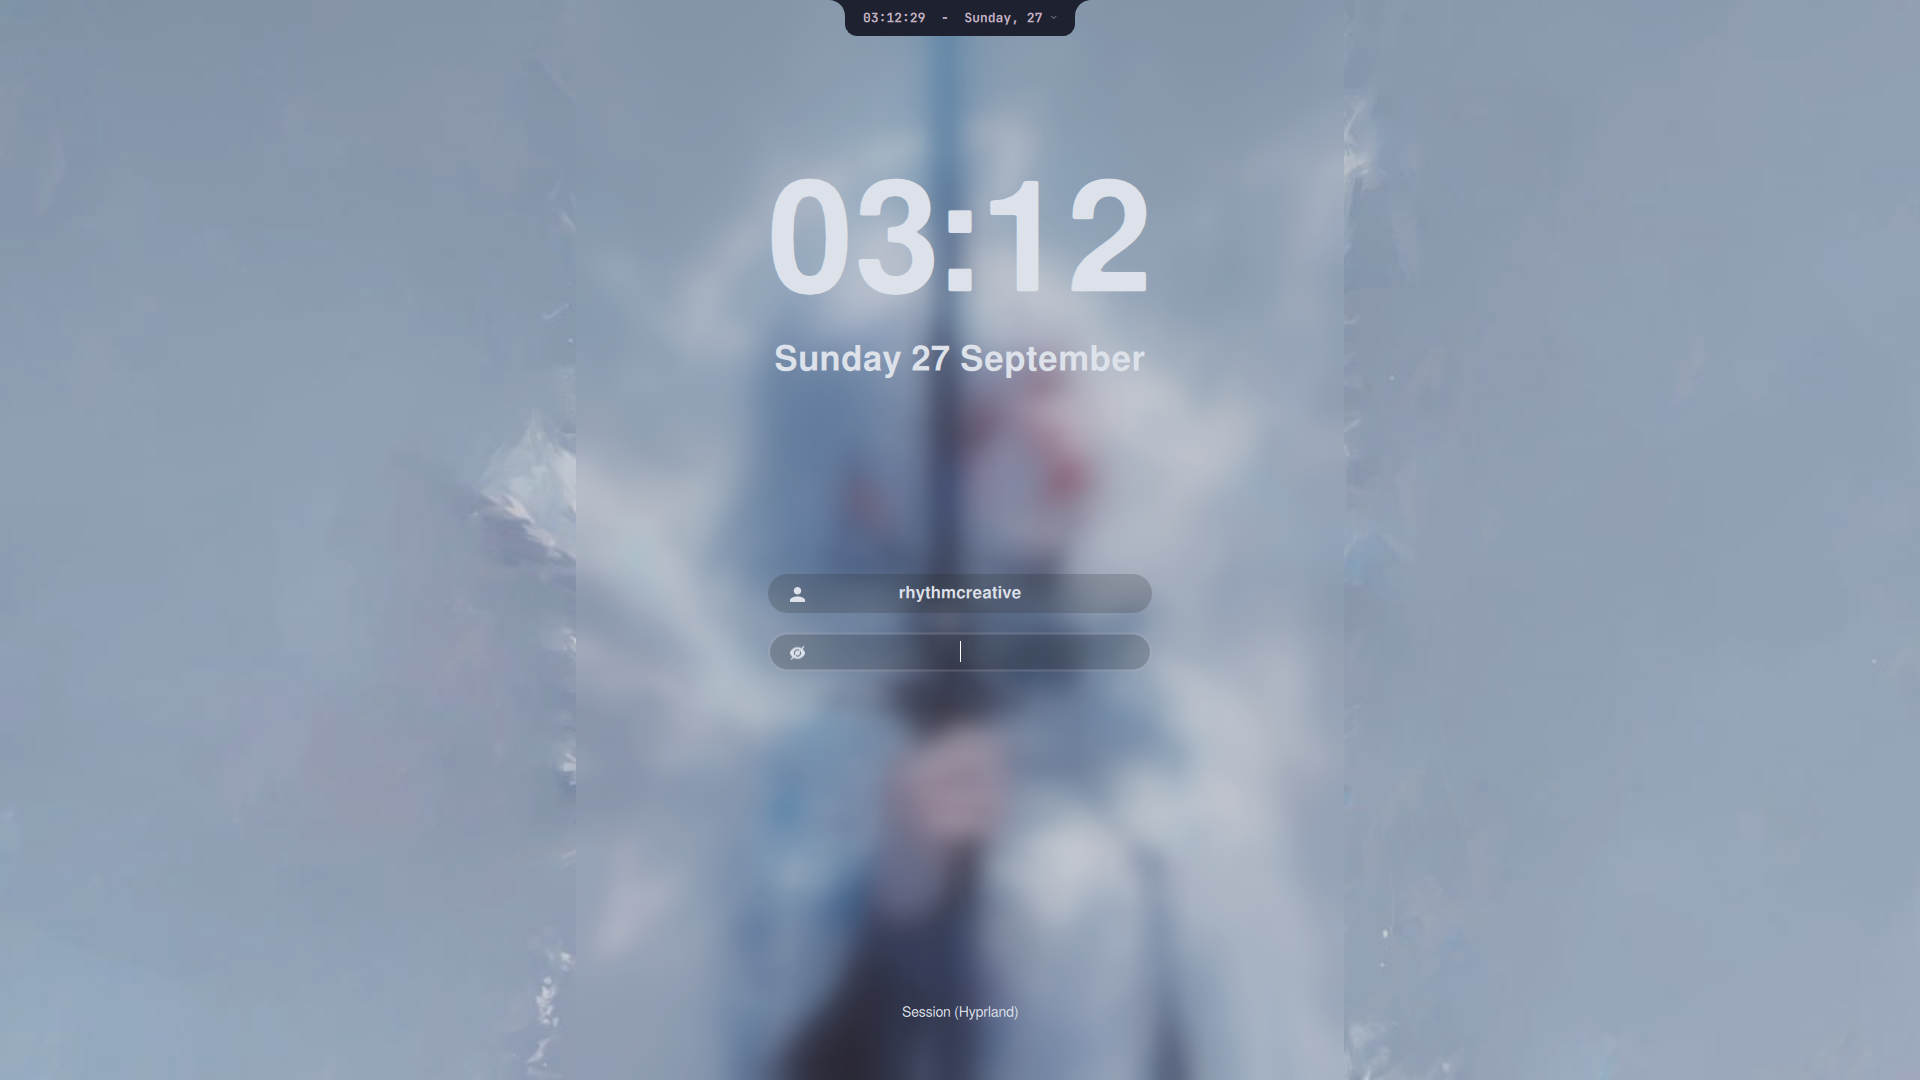
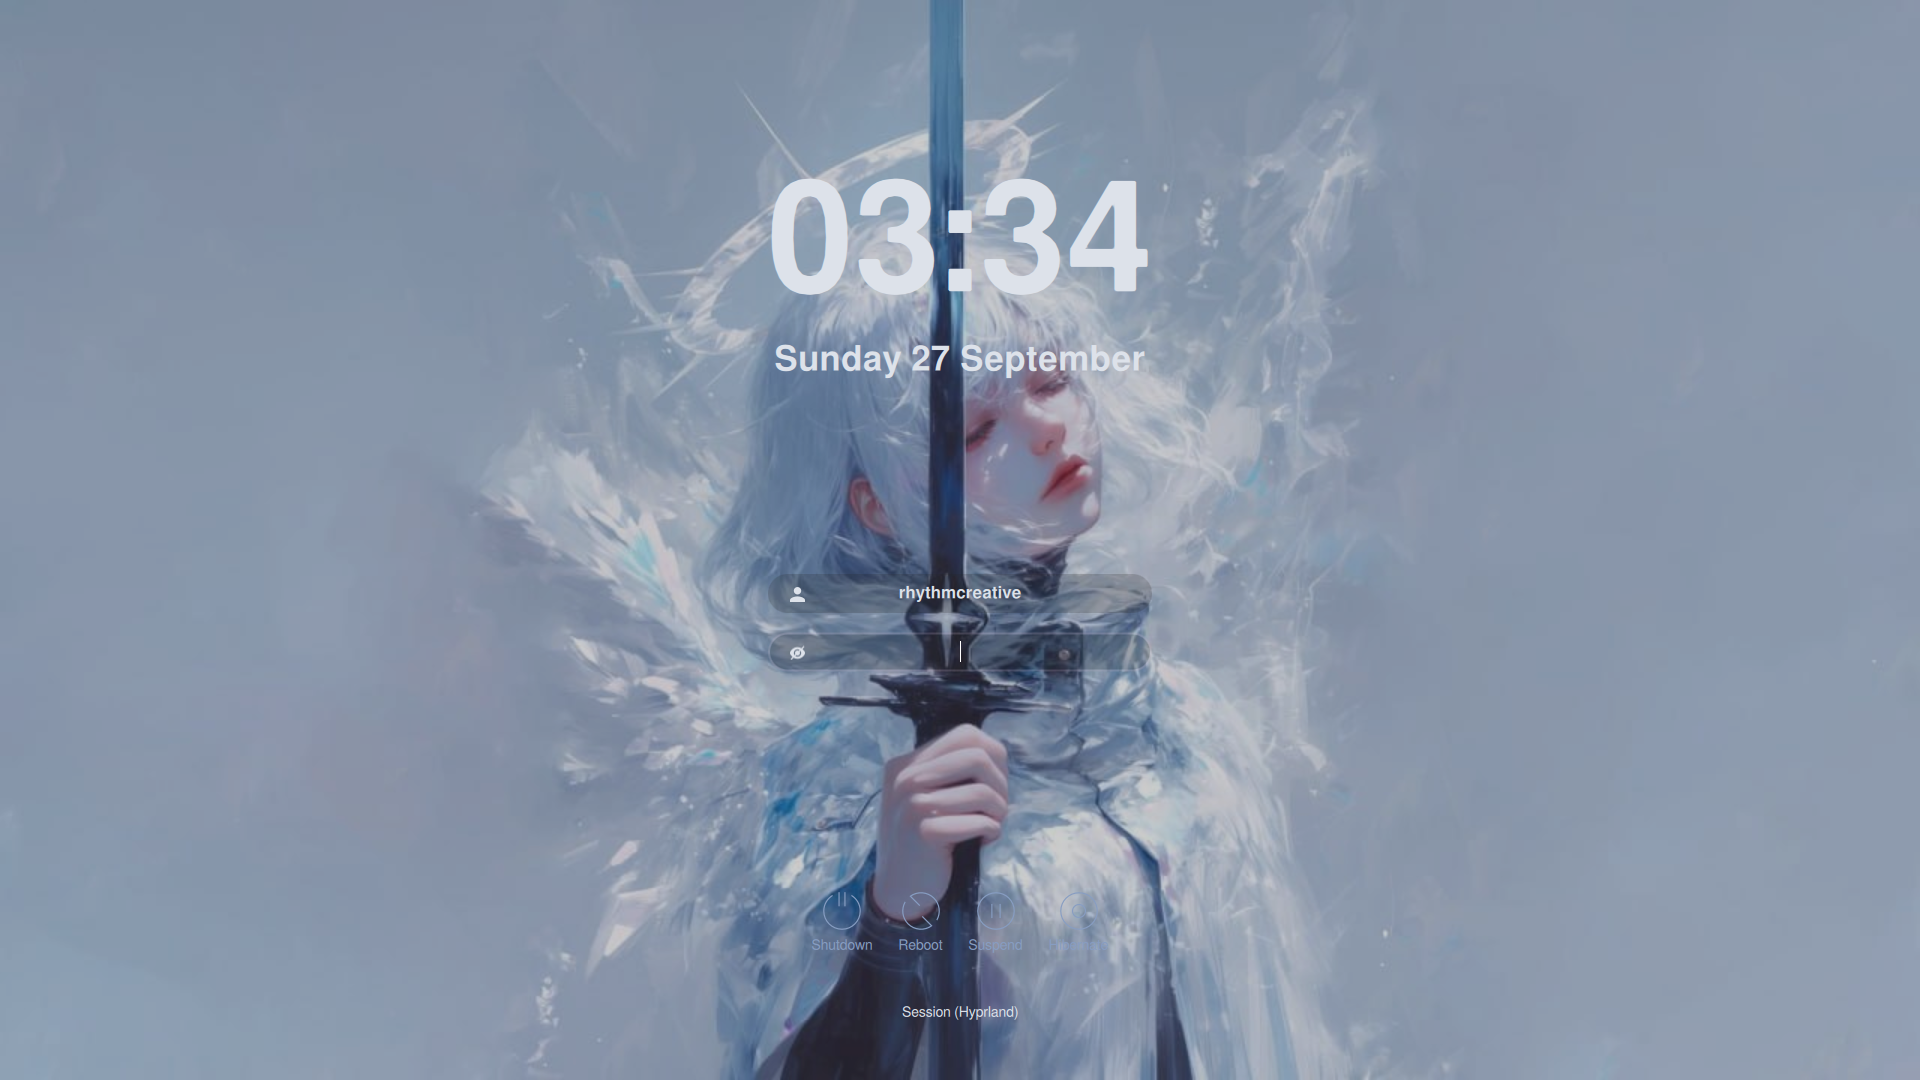
fix(sddm): fix render preview with full screen contrast and power controls

diff --git a/sddm/sddm-astronaut-theme/Components/SystemButtons.qml b/sddm/sddm-astronaut-theme/Components/SystemButtons.qml
@@ -32,7 +32,7 @@ RowLayout {
             icon.width: 2 * Math.round((root.font.pointSize * 3) / 2)
             icon.color: config.SystemButtonsIconColor
             display: AbstractButton.TextUnderIcon
-            visible: config.HideSystemButtons != "true" && modelData[2]
+            visible: config.HideSystemButtons != "true" && (modelData[2] || typeof sddm === "undefined" || (!sddm.canPowerOff && !sddm.canReboot))
             hoverEnabled: true
             palette.buttonText: config.SystemButtonsIconColor
             background: Rectangle {
